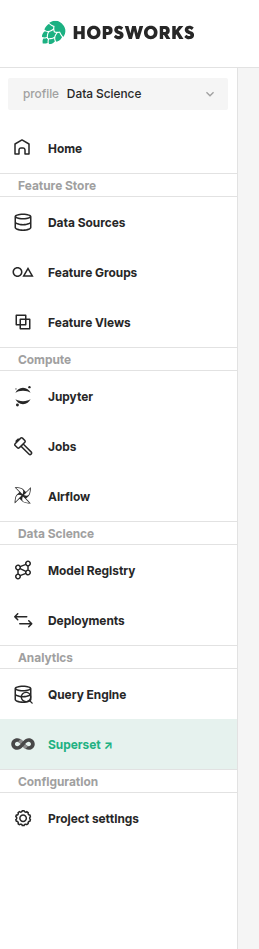
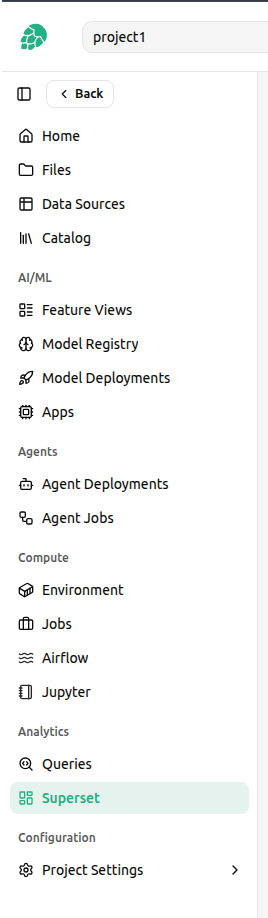
[HWORKS-2812] superset dashboard (#599)

Pull request: [HWORKS-2812] superset dashboard

Changed region(s): [[0.0, 0.061, 0.9266, 1.0], [0.278, 0.0, 1.0, 0.061], [0.0618, 0.0, 0.2471, 0.061]]

diff --git a/docs/user_guides/projects/superset/superset.md b/docs/user_guides/projects/superset/superset.md
@@ -27,7 +27,18 @@ Access Superset from your Hopsworks project:
   <figcaption>Accessing Superset from a Hopsworks project</figcaption>
 </figure>
 
-This opens the Superset interface with access to your project's data sources and any dashboards you have created or have permission to view.
+This opens the Superset dashboards page, which lists all dashboards available in your project.
+
+<figure>
+  <img src="../../../../assets/images/guides/superset/superset-dashboards.png" alt="Superset dashboards page" />
+  <figcaption>Superset dashboards page, with per-dashboard public/shared status and actions</figcaption>
+</figure>
+
+To open a specific dashboard, click its name in the list.
+The dashboard opens in a new browser tab.
+
+To open the full Superset application, click **Open Superset**.
+Superset opens in a new browser tab.
 
 ## Superset Interface
 
@@ -156,8 +167,20 @@ Dashboards combine multiple charts into interactive visualization reports.
 
 ### Sharing Dashboards
 
-By default, dashboards are only accessible to the owner of the dashboard.
-To share a dashboard with other users, you need to explicitly grant access by adding them as owners or granting role-based access.
+By default, a dashboard is only accessible to its owner.
+The project's **Superset** page in Hopsworks lists every dashboard with two visibility columns and per-row actions for changing who can see it:
+
+- **public** column: `not public`, `project public` (visible to every member of the current project), or `public` (visible to unauthenticated viewers).
+- **shared** column: `Not shared`, or `Shared` (hover to see which other projects the dashboard is shared with).
+
+The per-row action icons, from left to right, are: share with other projects, share with all project members, make public, copy permalink, and delete.
+
+These sharing and visibility actions, along with delete, are available only to the dashboard's owner. Other users can still open a dashboard and copy its permalink.
+
+All sharing actions require the dashboard to be **published** in Superset first.
+A draft is invisible to the roles being granted access, so the sharing icons stay disabled until you publish it.
+
+You can also share with specific users or roles from Superset's native dashboard **Access** dialog, as described next.
 
 #### Adding Users to Share a Dashboard
 
@@ -171,32 +194,74 @@ To share a dashboard with specific users or roles:
 
 Users added as owners or through roles can view and interact with the dashboard.
 
+#### Sharing with All Project Members
+
+To make a dashboard visible to every member of the current project, click the **share with all project members** icon on the dashboard's row.
+Hopsworks grants the project's role access to the dashboard, and the **public** column changes to `project public`.
+Click the icon again to remove access; the column returns to `not public`.
+
+Project members can then open the dashboard from their own **Superset** page or through a [permalink][sharing-dashboard-permalinks].
+
+#### Sharing with Other Projects
+
+You can grant members of other projects access to a dashboard without making it public:
+
+1. Click the **share with other projects** icon on the dashboard's row
+2. In the **Share with other projects** dialog, find the target project by name
+3. Tick a project to share the dashboard with all of its members; untick it to stop sharing
+
+The **shared** column shows `Shared` once at least one other project has access.
+Hover over it to see the list of projects.
+
+You do not need to be a member of a project to share a dashboard with it.
+Sharing attaches that project's role to the dashboard, so its members can open it from their own **Superset** page.
+
 #### Making Dashboards Public
 
-To allow access to anonymous or unauthenticated users, add the Public role to the dashboard's Roles list:
+To make a dashboard accessible to unauthenticated viewers (anyone with the link, no Superset login), use the **make public** icon on the project's Superset dashboards page in Hopsworks:
 
-1. Navigate to **Dashboards** and locate your dashboard
-2. Click the **edit icon** menu next to the dashboard name
-3. In the **Access** section, find the **Roles** dropdown
-4. Select **Public** from the roles list
-5. Click **Save** to apply the changes
+1. Open the **Superset** page in your project
+2. Locate the dashboard in the list
+3. Click the **make public** icon for that dashboard
+
+The dashboard is marked **public** and becomes viewable without a Superset login.
+Click the icon again to remove public access.
+
+The icon is enabled only when Superset's built-in **Public** role exists.
+If the role is missing, the icon is disabled and its tooltip reads `The Superset Public role does not exist`, and you should contact your Hopsworks administrator.
+
+You can also add or remove the Public role from Superset's native dashboard **Access** dialog.
 
 <figure>
   <img src="../../../../assets/images/guides/superset/add-public-role.png" alt="Adding public role to dashboard" />
   <figcaption>Adding the Public role to make a dashboard accessible to unauthenticated users</figcaption>
 </figure>
 
-When the Public role is added, the dashboard becomes viewable by anyone, including unauthenticated users.
-
 !!! warning "Security Considerations"
-    Only add the Public role to dashboards containing non-sensitive data.
+    Only make a dashboard public when it contains non-sensitive data.
     Ensure the dashboard does not expose confidential or project-specific information.
+
+##### Anonymous access requirements
+
+Marking a dashboard public requires only the Public role to exist.
+For unauthenticated viewers to actually open public dashboards and permalinks, the Superset deployment must satisfy two further conditions.
+The dashboards page shows a warning that lists any condition that is not met:
+
+- The built-in **Public** role exists. Without it, dashboards cannot be made public.
+- Unauthenticated access to the dashboard list is enabled. This requires `AUTH_ROLE_PUBLIC = "Public"` in `superset_config.py`.
+- The Public role has the required permissions. Running `superset init` syncs the permissions, and the Public role must also have dataset access.
+
+If the warning appears, contact your Hopsworks administrator to complete the configuration.
+See the Apache Superset [public role documentation](https://superset.apache.org/admin-docs/security/#public) for background.
 
 ### Sharing Dashboard Permalinks
 
-Superset allows you to share a direct link to a dashboard, preserving the current view state including applied filters and parameter values.
+A permalink is a direct link to a dashboard that preserves the current view state, including applied filters and parameter values.
 
-To share a dashboard permalink:
+From the project's Superset dashboards page in Hopsworks, click the copy-permalink action on a dashboard to copy its permalink to your clipboard.
+You can then share the copied URL with other users.
+
+To create a permalink from within Superset instead:
 
 1. Open the dashboard you want to share
 2. Apply any filters or configure the view as desired